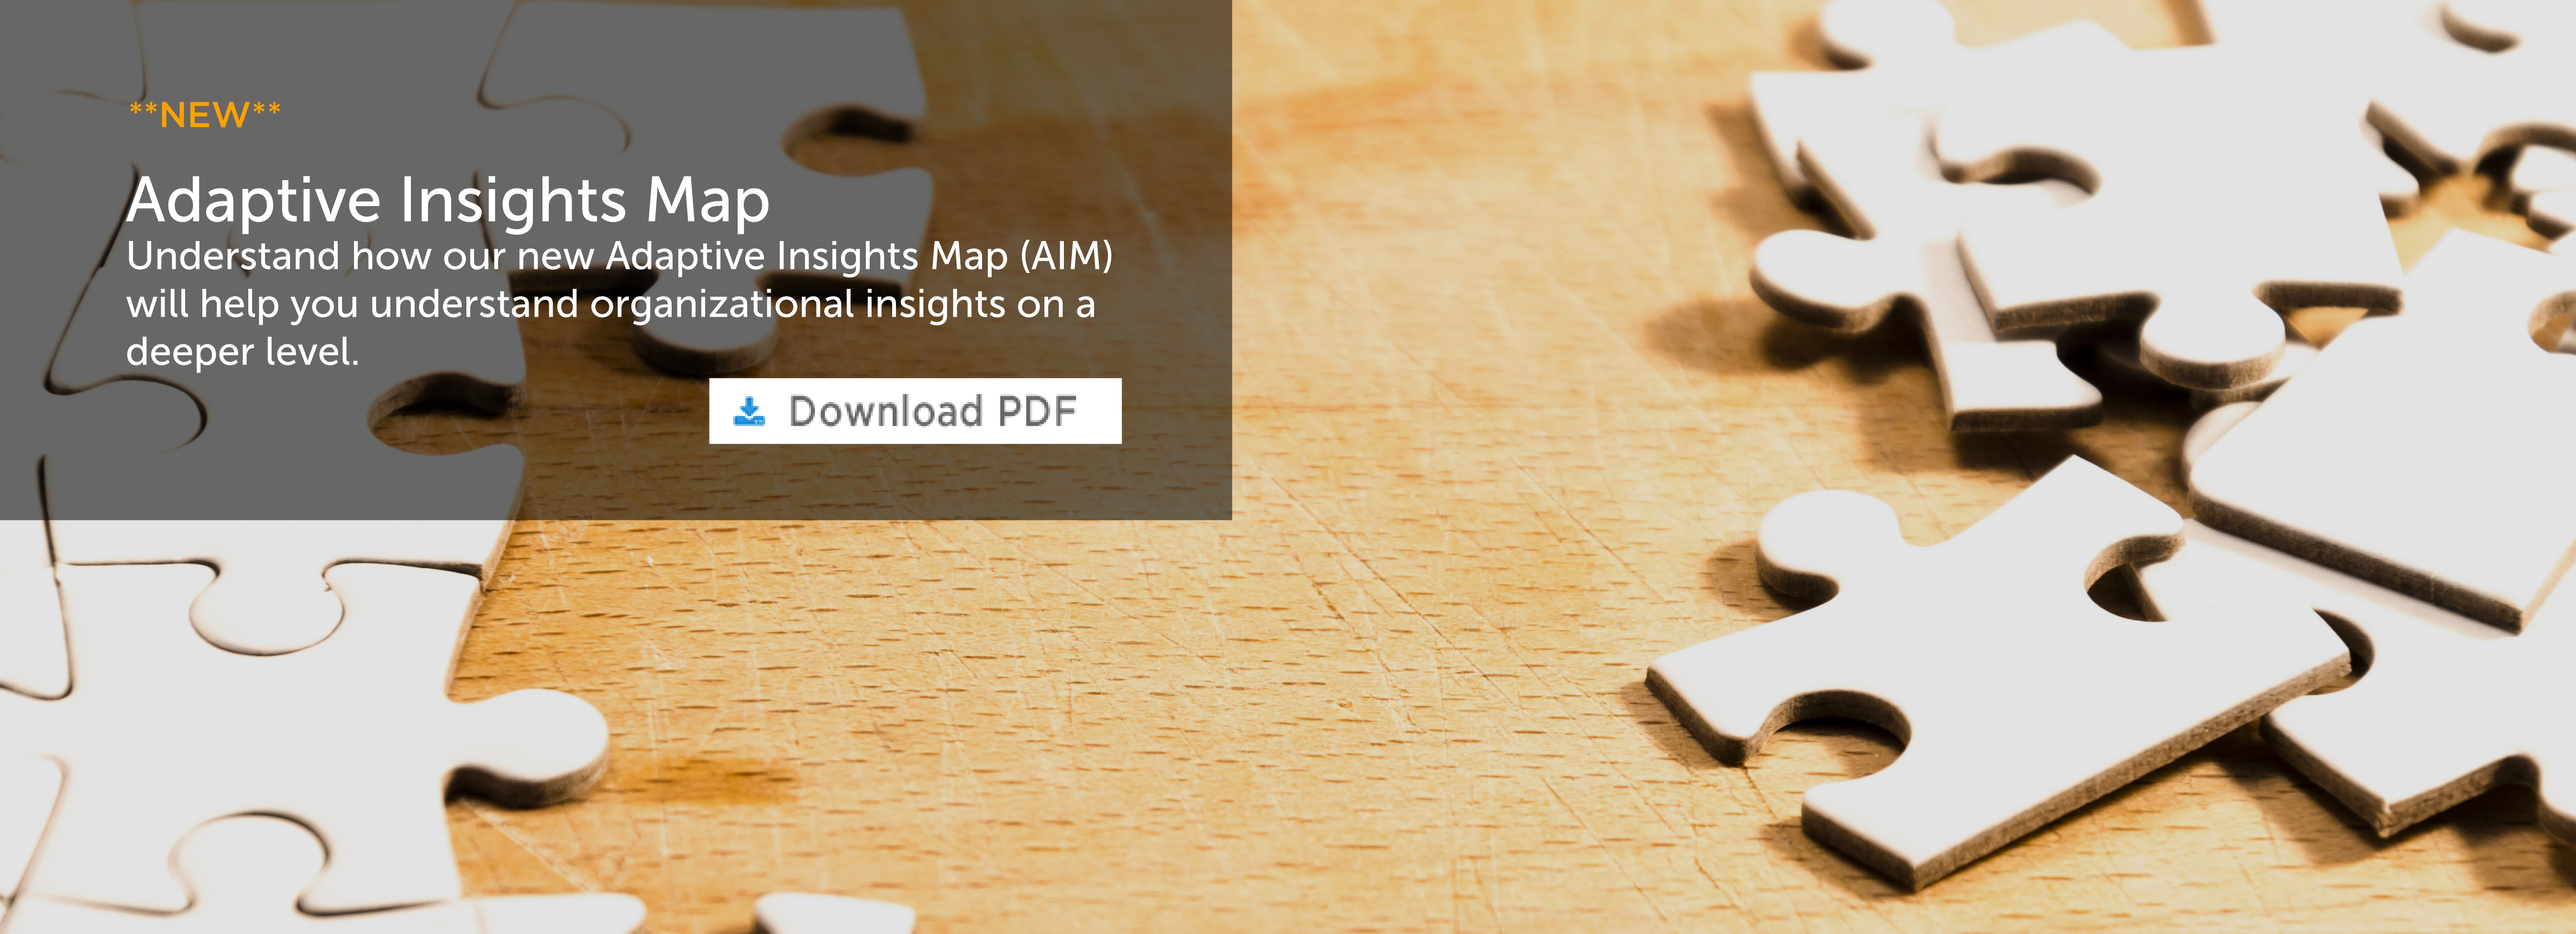
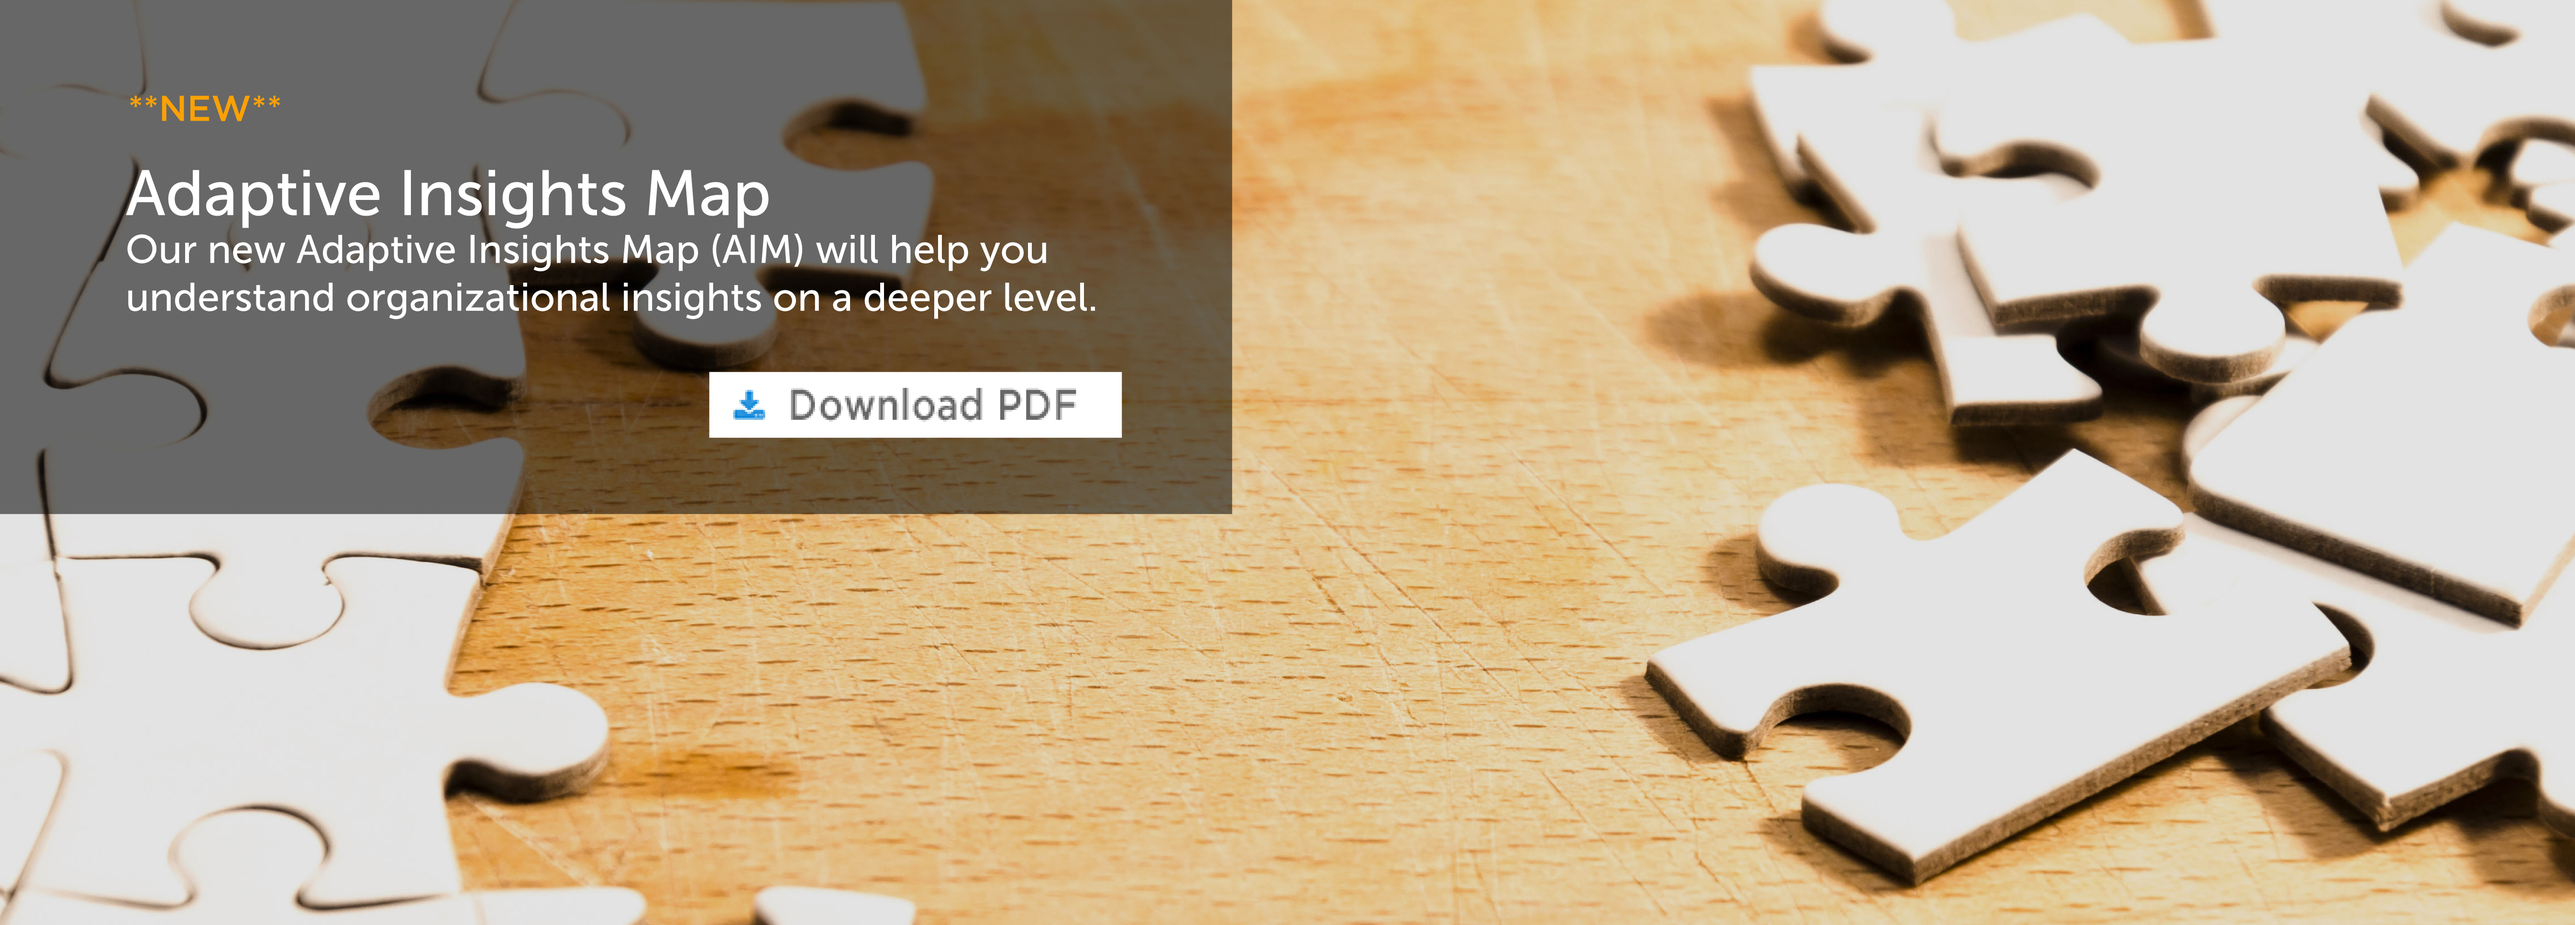
Updated AIM typo- home and solutions page

diff --git a/index.html b/index.html
@@ -139,9 +139,9 @@
                                       style="z-index: 6; font-size:22px;">
 
                                      <strong>Download Latest Product Guide</strong> <br>
-                                    Understand how our new Adaptive Insights Map (AIM) <br>
-                                    will help you understand organizational insights on<br>
-                                    a deeper level.<br><br>
+                                    Our new Adaptive Insights Map (AIM) will help<br>
+                                    you understand organizational insights on a<br>
+                                    deeper level.<br><br>
                        </div>
                                   <div class="tp-caption sft"
                                       data-x="center"
